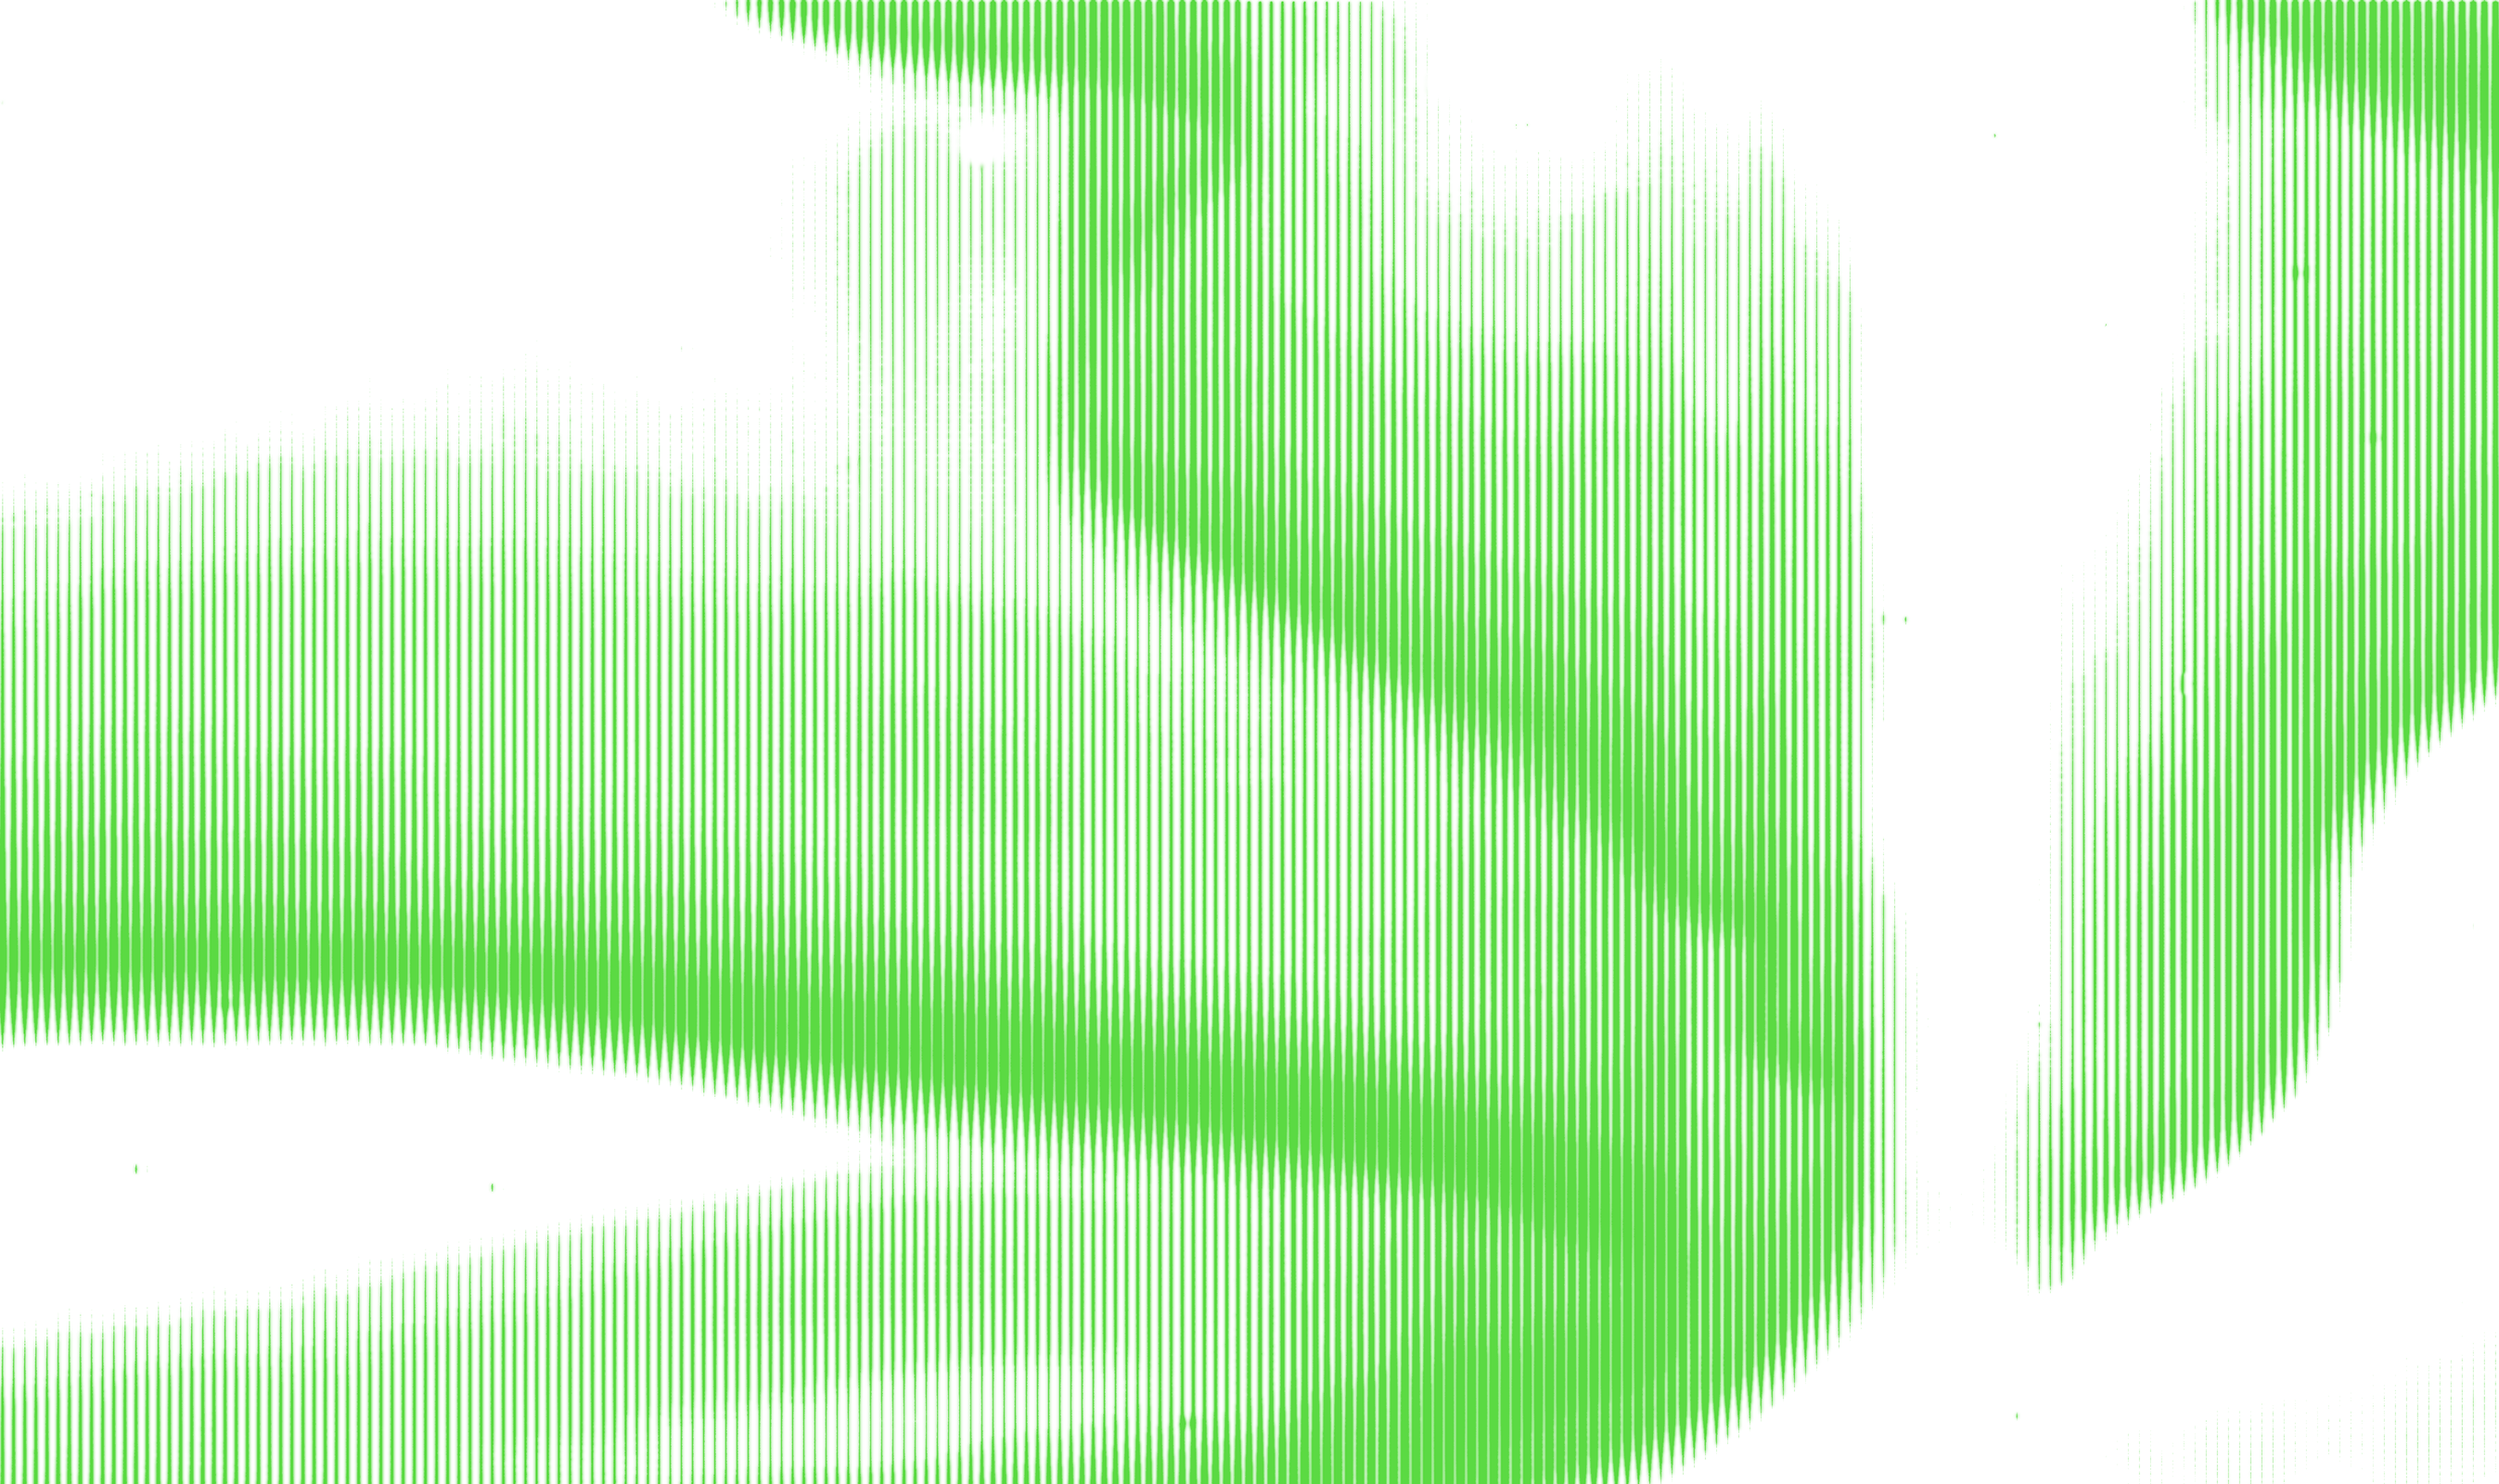
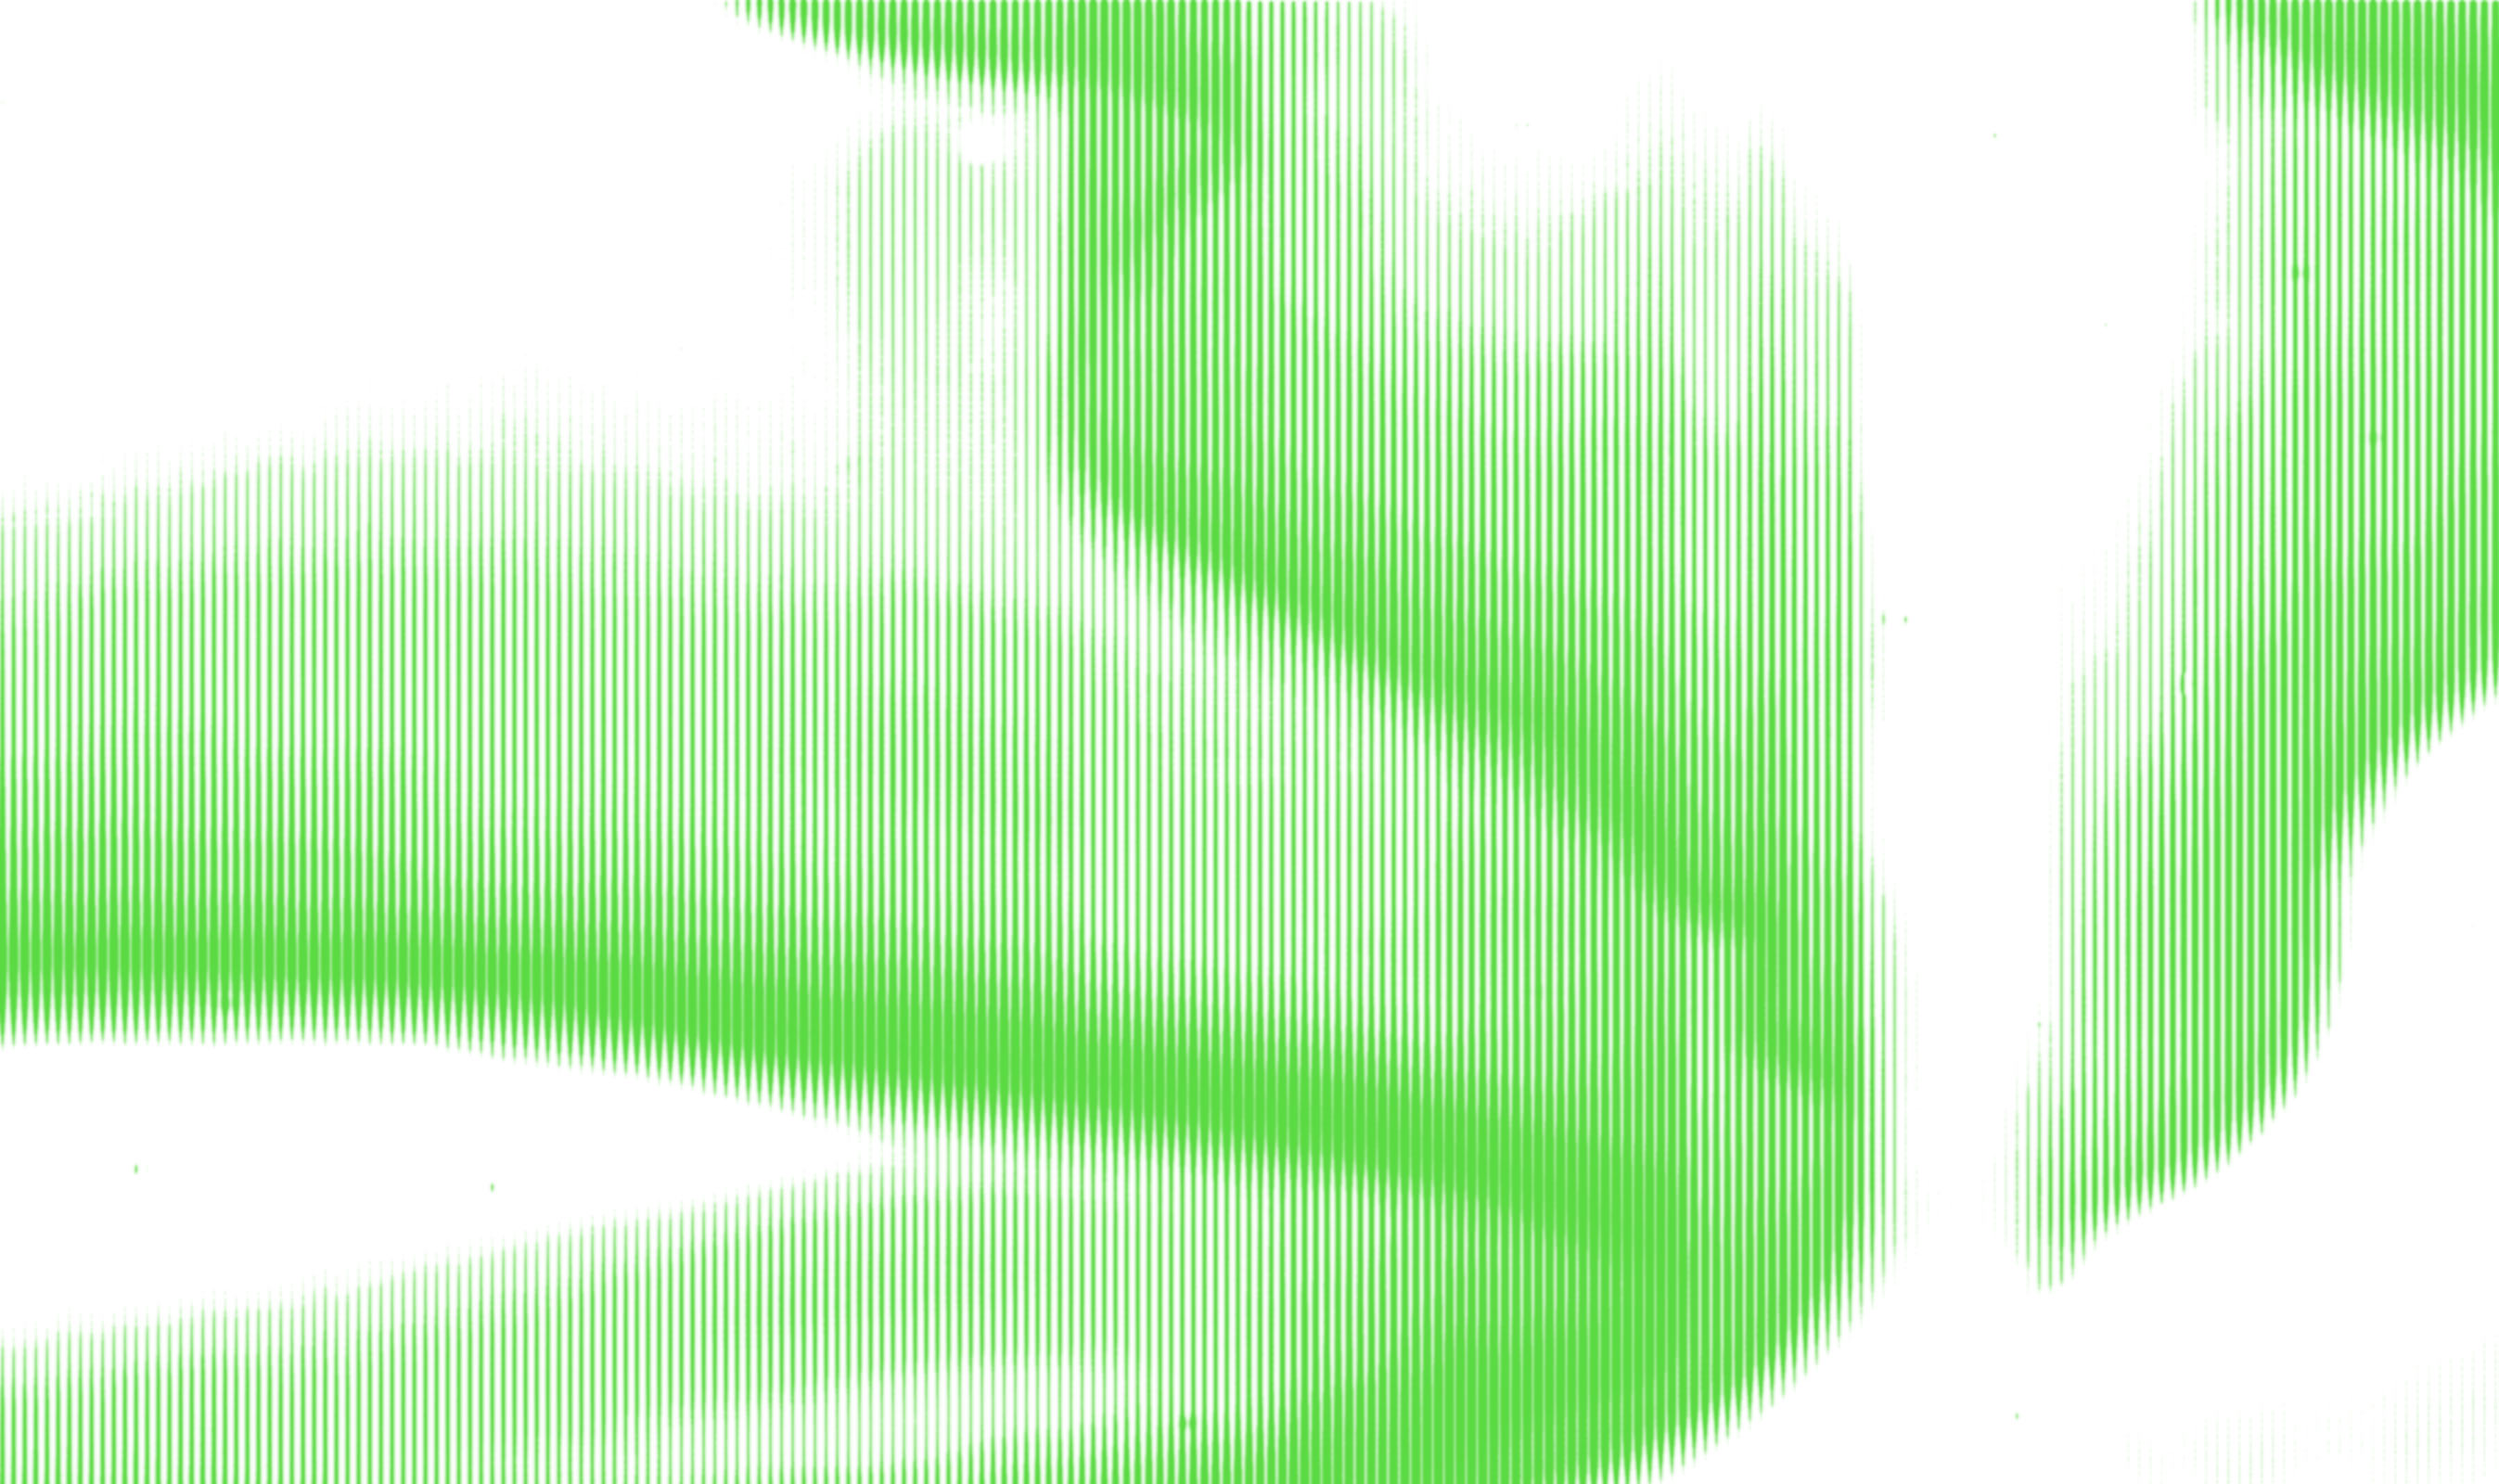
fixing the overly ambitous filter transition (thank you very much, firefox!)

diff --git a/AuroraUser/templates/login.html b/AuroraUser/templates/login.html
@@ -1,32 +1,11 @@
 {% extends "base.html" %}
 {% block content %}
-  <script type="text/javascript">
-  var next = "{{ next }}";
-  var signin_url = "{{ signin_url }}";
-  
-  
-  
-  function showMore(i) {
-	  blurValue = Math.round(i/2.25)/10;
-	  filterString = "blur(" + blurValue + "px) ";
-	  opaValue = 1;
-	  filterString = filterString + "opacity(" + opaValue + ") ";
-	  inValue = Math.round(i/18)/10;
-	  filterString = filterString + "invert(" + inValue + ") hue-rotate(" + i + "deg) ";
-	  grayValue = Math.round(Math.abs(1-Math.abs(1-i/90))*100);  // 180:0 90:100 0:1
-	  filterString = filterString + "grayscale(" + grayValue +"%)";
-	  document.getElementById("BG").style.filter = filterString;
-	  
-	  if (i > 0) {setTimeout(showMore,10,i-5)} else {$('.login').show()};
-  }
-  
-  $(function () {
-	  showMore(180);	  
-  });
-
-  </script>
+<script type="text/javascript">
+	var next = "{{ next }}";
+	var signin_url = "{{ signin_url }}";
+</script>
 <div id="BG" class="course_selection_background">
-    <div class="login"  id="loginXL" style="display:none">
+    <div class="login"  id="loginXL">
         <form>
             <div class="title">
                 Welcome to Aurora 2016

diff --git a/static/css/base.css b/static/css/base.css
@@ -215,7 +215,6 @@ input:-moz-placeholder { color:rgba(58,201,88,0);	text-shadow: 0 0 2px rgba(58,2
 	left:0px;
 	width:100%;
 	height:100%;
-    filter: blur(8px) opacity(0.9) invert(1) hue-rotate(180deg)  ;
 	
 }
 
@@ -422,7 +421,7 @@ input:-moz-placeholder { color:rgba(58,201,88,0);	text-shadow: 0 0 2px rgba(58,2
 	display:none;
 	position:absolute;
 	width:96px;
-	bottom:0px;
+	bottom: -4px;
 	left:0px;
     font-size: 20px;
     font-family: 'yanone_kaffeesatz_rgregular';

diff --git a/templates/course_selection.html b/templates/course_selection.html
@@ -10,7 +10,7 @@
 <style>
 
 .course_selection_background {
-	background: url("../static/img/aurora@2x.jpg");
+	background: url("../static/img/auroraN@2x.jpg");
 	background-size:cover;
 	background-repeat:no-repeat;
 	background-color:black;
@@ -21,7 +21,6 @@
 	left:0px;
 	width:100%;
 	height:100%;
-    filter: blur(8px) opacity(0.9) invert(1) hue-rotate(180deg)  ;
 	
 }
 
